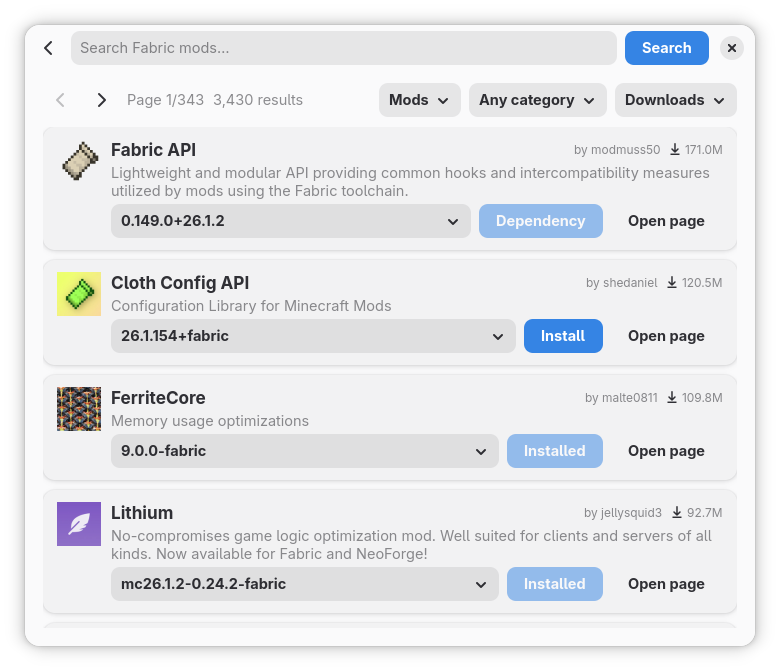
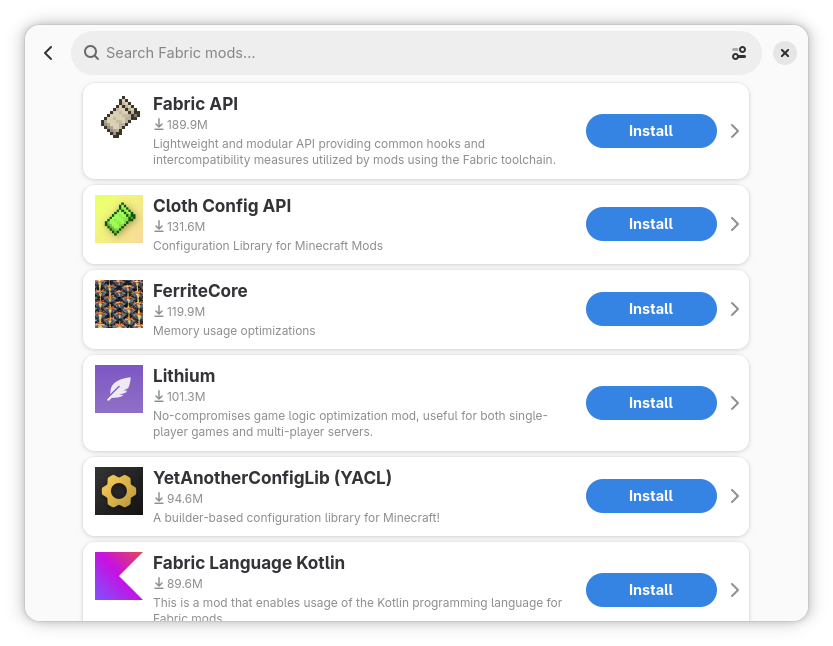
Version 1.7.7

diff --git a/hosty/version.py b/hosty/version.py
@@ -1,1 +1,1 @@
-__version__ = "1.7.6"
+__version__ = "1.7.7"